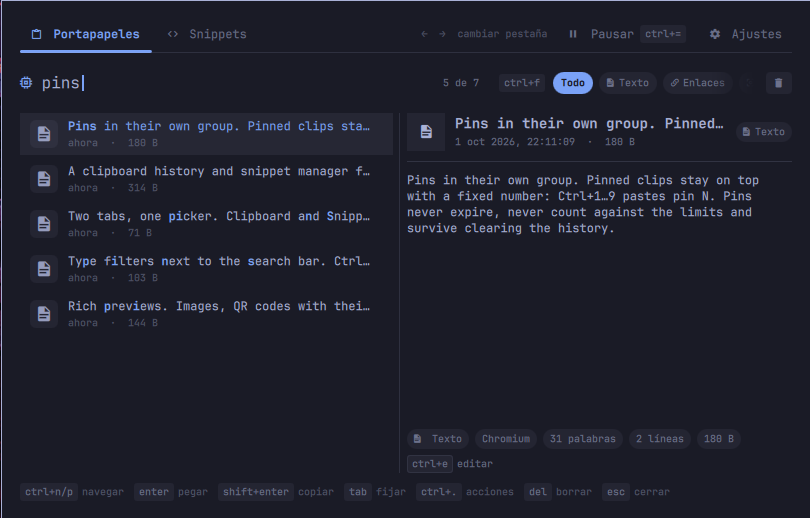
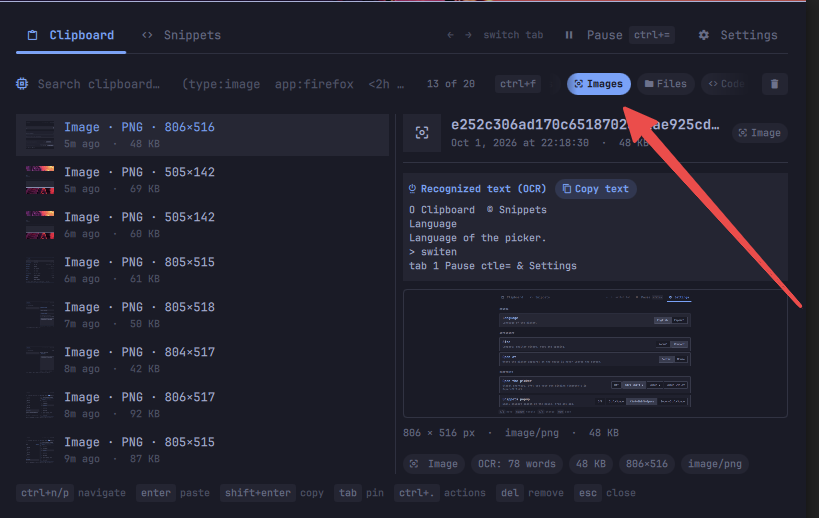
Screenshot: type filters

diff --git a/README.md b/README.md
@@ -42,7 +42,7 @@ from any app.
 - **Theme-integrated.** Colors, spacing and fonts come from the Omarchy shell theme.
 
 <p align="center">
-  <img src="docs/screenshots/search.png" alt="Fuzzy search with type filters" width="760">
+  <img src="docs/screenshots/search.png" alt="Type filters next to the search bar, with Images selected" width="760">
 </p>
 
 ## Install
